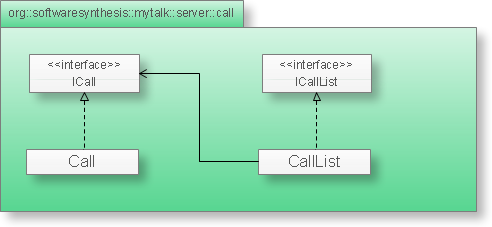
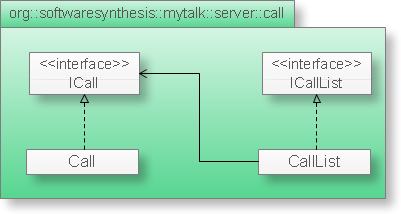
sistemati diagrammi nella specifica tecnica

diff --git a/Documents/specifica_tecnica/specifica_tecnica.tex b/Documents/specifica_tecnica/specifica_tecnica.tex
@@ -333,7 +333,7 @@ Una comunicazione nasce tra due utenti, colui che effettua la chiamata e colui c
 La progettazione di ogni singola sotto-architettura è caratterizzata da tre ``costrutti logici'' più volte richiamati per meglio identificare la struttura della sotto-architettura e i compiti che le classi identificati hanno in essa. Abbiamo pertanto:
 
 \begin{description}
-	\item{\scshape\bfseries Componenti}: sono costrutti logici che racchiudono classi tra loro coese e identificano delle sezioni architetturali con scopi ben precisi, in modo che la ricerca di una determinata classe possa avvenire con facilità individuandone la presenza in una componente a seconda del nome ad essa attribuitogli (e.g. la ricerca di una classe avente lo scopo di gestire una comunicazione client-client risulterà intuitivamente più semplice a fronte dell'esistenza di una componente denominata ``Gestione Comunicazione'').
+	\item{\scshape\bfseries Componenti}: sono costrutti logici che racchiudono classi tra loro coese e identificano delle sezioni architetturali con scopi ben precisi, in modo che la ricerca di una determinata classe possa avvenire con facilità individuandone la presenza in una componente a seconda del nome ad essa attribuitogli (e.g. la ricerca di una classe avente lo scopo di gestire una comunicazione client-client risulterà intuitivamente più semplice a fronte dell'esistenza di una componente denominata ``Gestione comunicazione'').
 	\item{\scshape\bfseries Classi}: sono le unità fisiche atte a risolvere un determinato problema (Requisito). Esse sono fisicamente racchiuse un package e logicamente possono appartenere ad un unica componente.
 	\item{\scshape\bfseries Package}: rappresentano l'aggregazione fisica di classi. Un package racchiude classi secondo due principi:
 		\begin{itemize}
@@ -675,7 +675,7 @@ Precisiamo che le classi rappresentanti i \inglese{transfer object} si trovano a
 \item{\scshape\bfseries Diagramma delle classi:}
 \begin{figure}[H]
   \centering
-  \includegraphics[width=.9\textwidth]{class_gestione_database}
+  \includegraphics[width=1\textwidth]{class_gestione_database}
   \caption{Diagramma delle classi - Gestione database}\label{fig:gestionedatabase}
 \end{figure}
 
@@ -706,7 +706,7 @@ Tale componente ingloba le classi destinate a stabilire le \inglese{routine} di 
 
 La comunicazione bidirezionale fra il server e i client è ottenuta estendendo la classe fornita dalle librerie di \textit{TomCat} \texttt{org.apache.catalina.websocket.MessageInbound} mediante \texttt{connection.PushInbound}. In particolare sarà realizzato l'\inglese{overriding} del metodo \texttt{onTextMessage(CharBuffer)} in modo da permettere al componente \textsf{Gestione connessione} del server di reagire correttamente ai messaggi provenienti dal client in forma testuale.
 
-Un ruolo essenziale è inoltre svolto dalla \inglese{servlet} \texttt{connection.ControllerManager}, realizzata estendendo mediante ereditarietà la classe fornita dalle librerie di \textit{Apache TomCat} \texttt{org.apache.catalina.websocket.WebSocketServlet}. Tale \inglese{servlet} non fa parte di questa componente, viene qui citata unicamente per chiarire l'interazione tra il client e il server in merito alla comunicazione. La \inglese{servlet} risiede, come si vedrà in seguito, nella componente \textsf{CS07 -- Gestione Controller}.
+Un ruolo essenziale è inoltre svolto dalla \inglese{servlet} \texttt{connection.ControllerManager}, realizzata estendendo mediante ereditarietà la classe fornita dalle librerie di \textit{Apache TomCat} \texttt{org.apache.catalina.websocket.WebSocketServlet}. Tale \inglese{servlet} non fa parte di questa componente, viene qui citata unicamente per chiarire l'interazione tra il client e il server in merito alla comunicazione. La \inglese{servlet} risiede, come si vedrà in seguito, nella componente \textsf{CS07 -- Gestione controller}.
 
 La caratteristica fondamentale della \inglese{servlet}, che rappresenta inoltre un punto di accesso centralizzato alle funzionalità del componente \textsf{Gestione connessione}, è quella di fare \inglese{overriding} del metodo \texttt{createWebSocketInbound(String, HttpServletRequest)} al fine di restituire un opportuno sottotipo di \texttt{org.apache.catalina.websocket.StreamInbound}. Il tipo dinamico dell'oggetto ritornato da \texttt{connection.ConnectionManager} corrisponde infatti proprio a \texttt{connection.PushInbound} in modo che lato client l'invocazione del costruttore di \texttt{WebSocket} (passando come parametro l'URL della \inglese{servlet}) crei una connessione del tipo voluto.
 
@@ -715,7 +715,7 @@ Ne consegue che, come sarà esposto con maggiori dettagli nella sezione \vref{se
 	\item{\scshape\bfseries Diagramma delle classi:}
 \begin{figure}[H]
   \centering
-  \includegraphics[width=.8\textwidth]{class_gestione_connessione}
+  \includegraphics[width=.6\textwidth]{class_gestione_connessione}
   \caption{Diagramma delle classi - Gestione connessione}\label{fig:gestioneconnessione}
 \end{figure}
 	
@@ -852,7 +852,7 @@ Per consentire ai client di accedere alle funzionalità gestite da questo compon
 	\item{\scshape\bfseries Diagramma delle classi:}
 \begin{figure}[H]
   \centering
-  \includegraphics[width=.8\textwidth]{class_gestione_segreteria}
+  \includegraphics[width=.45\textwidth]{class_gestione_segreteria}
   \caption{Diagramma delle classi - Gestione segreteria}\label{fig:gestionesegreteria}
 \end{figure}	
 	
@@ -877,7 +877,7 @@ Infine, allo scopo di consentire ai client l'accesso alle funzionalità di quest
   \item{\scshape\bfseries Diagramma delle classi:}
 \begin{figure}[H]
   \centering
-  \includegraphics[width=.6\textwidth]{class_gestione_chiamate}
+  \includegraphics[width=.5\textwidth]{class_gestione_chiamate}
   \caption{Diagramma delle classi - Gestione chiamate}\label{fig:gestionechiamate}
 \end{figure}
 
@@ -892,7 +892,7 @@ Infine, allo scopo di consentire ai client l'accesso alle funzionalità di quest
 
 %TODO Dio sia lodato, questa classe è stata salvata! SIA LODE E GLORIA AL SIGNORE!
 
-\subsubsection{CS07 -- Gestione Controller}\label{sec:cs07}
+\subsubsection{CS07 -- Gestione controller}\label{sec:cs07}
 \begin{description}
 	\item{\scshape\bfseries Descrizione:}\\
 Il componente ha il ruolo di descrivere tutte le funzionalità che il sistema server è in grado di svolgere, ad esempio il blocco di un contatto, l'aggiunta dello stesso alla rubrica, ad un gruppo, o la ricerca di uno specifico nel database generale. A tali funzionalità si accede mediante un front controller (CS08, descritto nel paragrafo successivo) che implementa un sistema che permette di monitorare le richieste sulle stesse.
@@ -977,7 +977,7 @@ Infine il download e la gestione della segreteria telefonica (di competenza di \
 	\item{\scshape\bfseries Diagramma delle classi:}
 \begin{figure}[H]
   \centering
-  \includegraphics[width=.7\textwidth]{class_facade_server}
+  \includegraphics[width=.9\textwidth]{class_gestione_controller}
   \caption{Diagramma delle classi - Gestione controller}\label{fig:facadeserver}
 \end{figure}
 
@@ -1028,7 +1028,11 @@ La classe Java \texttt{HttpServlet} implementa un sistema di \inglese{listening}
 Per riconoscere il tipo di richiesta inoltrata il \inglese{front controller}, rappresentato dalla classe \texttt{ControllerManager}, si appoggia ad un \inglese{file .properties} contenente le associazioni tra i nomi dei controller e i percorsi delle classi corrispondenti.
 
 	\item{\scshape\bfseries Diagramma delle classi:}\\
-%TODO: INSERIRE DIAGRAMMA CLASSI FRONT CONTROLLER
+\begin{figure}[H]
+  \centering
+  \includegraphics[width=.9\textwidth]{frontController}
+  \caption{Diagramma delle classi - Front controller}\label{fig:facadeserver}
+\end{figure}
 
 Il diagramma in figura X rappresenta l'implementazione generica del \inglese{front controller} che, come anticipato, nasconde agli utilizzatori l'iter per la gestione dei specifici servizi (rubrica, segreteria, autenticazione, etc.). Per ogni servizio è descritta con maggiori dettagli e la relativa rappresentazione grafica, l'applicazione del \inglese{design pattern} nel paragrafo \vref{sec:patternfacade}.
 
@@ -1107,7 +1111,7 @@ Presenta inoltre una dipendenza di tipo \inglese{create} e \inglese{use} all'int
   \item{\scshape\bfseries Componenti che ne fanno uso:}
   \begin{itemize}[noitemsep,nolistsep]
     \item[-] \textsf{CS01 -- Gestione database}
-    \item[-] \textsf{CS07 -- Gestione Controller}
+    \item[-] \textsf{CS07 -- Gestione controller}
   \end{itemize}
 \end{description}
 
@@ -2317,6 +2321,8 @@ Nell'utilizzare tale vista l'utente non avrà alcuna percezione di come sia stat
 
 In figura \ref{fig: gui_alto} si riporta un abbozzo dell'interfaccia grafica utente realizzata mediante le classi di questa sotto-architettura. In conformità con quanto stabilito dai requisiti (RSDO10.0.0) l'interfaccia si sviluppa in un'unica pagina.
 
+%TODO Cambiare la fiugra con uno screen nuovo
+
 \begin{figure}[h]
   \centering
   \includegraphics[width=.9\textwidth]{manual_main}
@@ -2730,7 +2736,7 @@ La classe DAO Data Persistance Manager, consente di isolare l'accesso alle tabel
 
 \begin{figure}[H]
   \centering
-  \includegraphics[width=.95\textwidth]{pattern_dao}
+  \includegraphics[width=.9\textwidth]{pattern_dao}
   \caption{Applicazione del \inglese{pattern} Data Access Object}\label{fig:dao}
 \end{figure}
 
@@ -2749,6 +2755,15 @@ Fornire un punto d'ingresso centralizzato per la gestione delle richieste, defin
   \item{\scshape\bfseries CS08 -- Front controller}\\
 Questa componente della sotto-architettura server fornisce un unico punto d'accesso al sistema, andando a delegare le operazioni richieste al corrispondente controller presente in \texttt{CS07 -- Gestione controller}. La classe cosi definita è \texttt{ControllerManager}. Le componenti su cui possono interagire direttamente i controller sono: \textsf{Gestione rubrica}, \textsf{Gestione connessione}, \textsf{Gestione segreteria}, \textsf{Gestione chiamate} e \textsf{Gestione autenticazione}, come riportato nella tabella della sezione \vref{sec:cs07}.
 \end{description}
+
+
+\begin{figure}[H]
+  \centering
+  \includegraphics[width=.9\textwidth]{pattern_frontcontroller}
+  \caption{Applicazione del \inglese{pattern} Data Access Object}\label{fig:dao}
+\end{figure}
+
+
 
 \begin{figure}[H]
   \centering
@@ -2774,13 +2789,20 @@ Definisce un'interfaccia per la creazione di un oggetto, lasciando alle sottocla
 	\item{\scshape\bfseries CS01 -- Gestione database}\\
 In tale componente è la classe \texttt{dao.UtilFactory} a definire dei metodi per la creazione di istanze di classi figlie di \texttt{dao.util.GetUtil} e \texttt{dao.util.ModifyUtil}.
 
+\begin{figure}[H]
+  \centering
+  \includegraphics[width=.6\textwidth]{pattern_factorymethod_DB}
+  \caption{Applicazione del \inglese{pattern} Factory Method}in \textsf{CS01 - Gestione database} \label{fig:factory_method}
+\end{figure}
+
+
   \item{\scshape\bfseries CS02 -- Gestione connessione}\\
 Gli oggetti che intendono rappresentare connessioni sono sottotipi della classe di libreria \texttt{org.apache.catalina.websocket.StreamInbound} e vengono instanziati mediante un Factory Method nelle sottoclassi di \texttt{org.apache.catalina.websocket.WebSocketServlet}.
 
 \begin{figure}[H]
   \centering
-  \includegraphics[width=.8\textwidth]{pattern_factorymethod}
-  \caption{Applicazione del \inglese{pattern} Factory Method}\label{fig:factory_method}
+  \includegraphics[width=.6\textwidth]{pattern_factorymethod}
+  \caption{Applicazione del \inglese{pattern} Factory Method}in \textsf{CS02 - Gestione connessione}\label{fig:factory_method}
 \end{figure}
 
 In particolare, la classe \texttt{ControllerManager} restituisce un oggetto che rappresenta la connessione di tipo dinamico \texttt{connection.PushInbound} che implementa il comportamento come reazione ai messaggi in ingresso facendo a sua volta \inglese{overriding} del metodo \texttt{onTextMessage(CharBuffer)}.
@@ -2800,7 +2822,7 @@ All'interno di tale classe l'utilizzo del pattern si ha nel momento in cui è ne
 
 \begin{figure}[H]
   \centering
-  \includegraphics[width=.8\textwidth]{pattern_strategy}
+  \includegraphics[width=.7\textwidth]{pattern_strategy}
   \caption{Applicazione del \inglese{pattern} Strategy}\label{fig:strategy}
 \end{figure}
 
@@ -2815,17 +2837,48 @@ Permette di definire la struttura di un algoritmo lasciando alle sottoclassi il 
 \begin{description}
 
   \item{\scshape\bfseries CS01 -- Gestione database}\\
-In tale componente la classe \texttt{dao.uti.ModifyUtil} implementa il pattern \texttt{template method} definendo un metodo per l'esecuzione di un'operazione su \texttt{dao.DataPersistenceManager}, e lasciando l'implementazione dell'algoritmo alle classi figlie. Tali sono: \texttt{dao.uti.InsertUtil}, \texttt{dao.uti.UpdateUtil} e \texttt{dao.uti.DeleteUtil}.
+In tale componente la classe \texttt{dao.util.ModifyUtil} implementa il pattern \texttt{template method} definendo un metodo per l'esecuzione di un'operazione su \texttt{dao.DataPersistenceManager}, e lasciando l'implementazione dell'algoritmo alle classi figlie. Tali sono: \texttt{dao.util.InsertUtil}, \texttt{dao.util.UpdateUtil} e \texttt{dao.util.DeleteUtil}.
 
-Anche la classe \texttt{dao.uti.GetUtil} implementa lo stesso comportamento, lasciando alle classi figlie (\texttt{dao.uti.GetCallUtil}, \texttt{dao.uti.GetGroupUtil}, \texttt{dao.uti.GetUserDataUtil}, \texttt{dao.uti.NotInitialize}) il compito di definire l'algoritmo d'implementazione.
+
+\begin{figure}[H]
+  \centering
+  \includegraphics[width=1\textwidth]{pattern_template_dao}
+  \caption{Applicazione del \inglese{pattern} Template Method}in \textsf{CS01 - Gestione database} della classe \texttt{ModifyUtil}  \label{fig:template_dao}
+\end{figure}
+
+
+
+
+Anche la classe \texttt{dao.util.GetUtil} implementa lo stesso comportamento, lasciando alle classi figlie (\texttt{dao.util.GetCallUtil}, \texttt{dao.util.GetGroupUtil}, \texttt{dao.util.GetUserDataUtil}, \texttt{dao.util.NotInitialize}) il compito di definire l'algoritmo d'implementazione.
+
+\begin{figure}[H]
+  \centering
+  \includegraphics[width=1\textwidth]{pattern_template_dao2}
+  \caption{Applicazione del \inglese{pattern} Template Method}in \textsf{CS01 - Gestione database} della classe \texttt{GetUserDataUtil}  \label{fig:template_dao2}
+\end{figure}
+
+
 
 	\item{\scshape\bfseries CS04 -- Gestione autenticazione}\\
-In tale componente la classe \texttt{authentication.security.AESTemplate} implementa il pattern \texttt{template method} definendo un metodo per l'esecuzione di un operazione AES. Nello specifico le operazioni possibili sono: criptazione e decriptazione. Tali sono rappresentate dalle classi figlie \texttt{authentication.security.AESEncode} e \texttt{authentication.security.AESDecode}.
+In tale componente la classe \texttt{authentication.security.AESTemplate} implementa il pattern \texttt{template method} definendo un metodo per l'esecuzione di un operazione AES. Nello specifico le operazioni possibili sono: criptazione e decriptazione. Tali sono rappresentate dalle classi \texttt{authentication.security.AESEncode} e \texttt{authentication.security.AESDecode}.
+
+\begin{figure}[H]
+  \centering
+  \includegraphics[width=0.9\textwidth]{pattern_template_autent}
+  \caption{Applicazione del \inglese{pattern} Template Method}in \textsf{CS01 - Gestione autenticazione} \label{fig:template_autent}
+\end{figure}
+
 
 	\item{\scshape\bfseries CS07 -- Gestione controller}\\
 In tale componente la classe \texttt{server.AbstractController} definisce una procedura per l'esecuzione di una richiesta inoltrata da un client alg server. Tale procedura prevede di richiamare un metodo atto all'esecuzione della richiesta specifica. La procedura definita da tale metodo, secondo l'implementazione del \texttt{template method}, viene ridefinita all'interno delle classi figlie di \texttt{server.AbstractController}. Tali classi sono tutte e sole quelle contenute nella componente CS07, ossia tutti i controller del sistema.
 
-%TOTO inserire diagramma!
+\begin{figure}[H]
+  \centering
+  \includegraphics[width=0.9\textwidth]{pattern_template_controller}
+  \caption{Applicazione del \inglese{pattern} Template Method}in \textsf{CS01 - Gestione controller} \label{fig:template_controller}
+\end{figure}
+
+
 
 Per rendere il diagramma più chiaro e leggibile, sono state omesse le relazioni d'uso che intercorrono tra \texttt{AbstractController} e le classi controller. Come unico esempio è stata riportata la relazione inerente \texttt{AddContactController} e \texttt{LoginController}.
 
@@ -2857,6 +2910,14 @@ Qualora quest'ultimo fosse in grado di soddisfare tale richiesta con le risorse 
 
 Il vantaggio di un simile schema di interazione consiste nella riduzione del traffico di rete e nel conseguente incremento delle prestazioni in termini di velocità e, di conseguenza, dell'esperienza utente in generale.
 
+
+\begin{figure}[H]
+  \centering
+  \includegraphics[width=0.95\textwidth]{MVP}
+  \caption{Applicazione del \inglese{pattern} MVP}\label{fig:mvp}
+\end{figure}
+
+
 \subsubsection{Componenti che lo implementano}
 MVP viene utilizzato come il \inglese{pattern} più ad alto livello del sistema: la distinzione fra \inglese{model}, \inglese{presenter} e \inglese{view} è infatti rispecchiata dalla suddivisione del sistema nelle tre sotto-architetture \texttt{server}, \texttt{clientpresenter} e \texttt{clientview}.
 
@@ -2868,7 +2929,7 @@ Le componenti del sistema che prendono parte alle collaborazioni previste dal \i
 \begin{description}
   \item{\scshape\bfseries CS01 -- Gestione database}\\
 Componente che ha il ruolo di gestire la persistenza dei dati sul server necessaria alla memorizzazione delle entità di interesse del modello dei dati.
-
+ 
   \item{\textsc{\bfseries CS06 -- Gestione chiamate}, \textsc{\bfseries CS03 -- Gestione rubrica} e \textsc{\bfseries CS05 -- Gestione segreteria}}\\
 Contengono le rappresentazioni delle entità della \inglese{business logic} lato server che devono essere interrogate per ricavare le informazioni necessarie ai client in forma opportuna.
 
@@ -2897,7 +2958,7 @@ La classe \texttt{server.dao.SessionManager} è implementata come Singleton dal 
 
 \begin{figure}[H]
   \centering
-  \includegraphics[width=.6\textwidth]{pattern_singleton_dao}
+  \includegraphics[width=.8\textwidth]{pattern_singleton_dao}
   \caption{Applicazione del \inglese{pattern} Singleton a \textsf{Gestione database}}\label{fig:singleton2}
 \end{figure}
 
